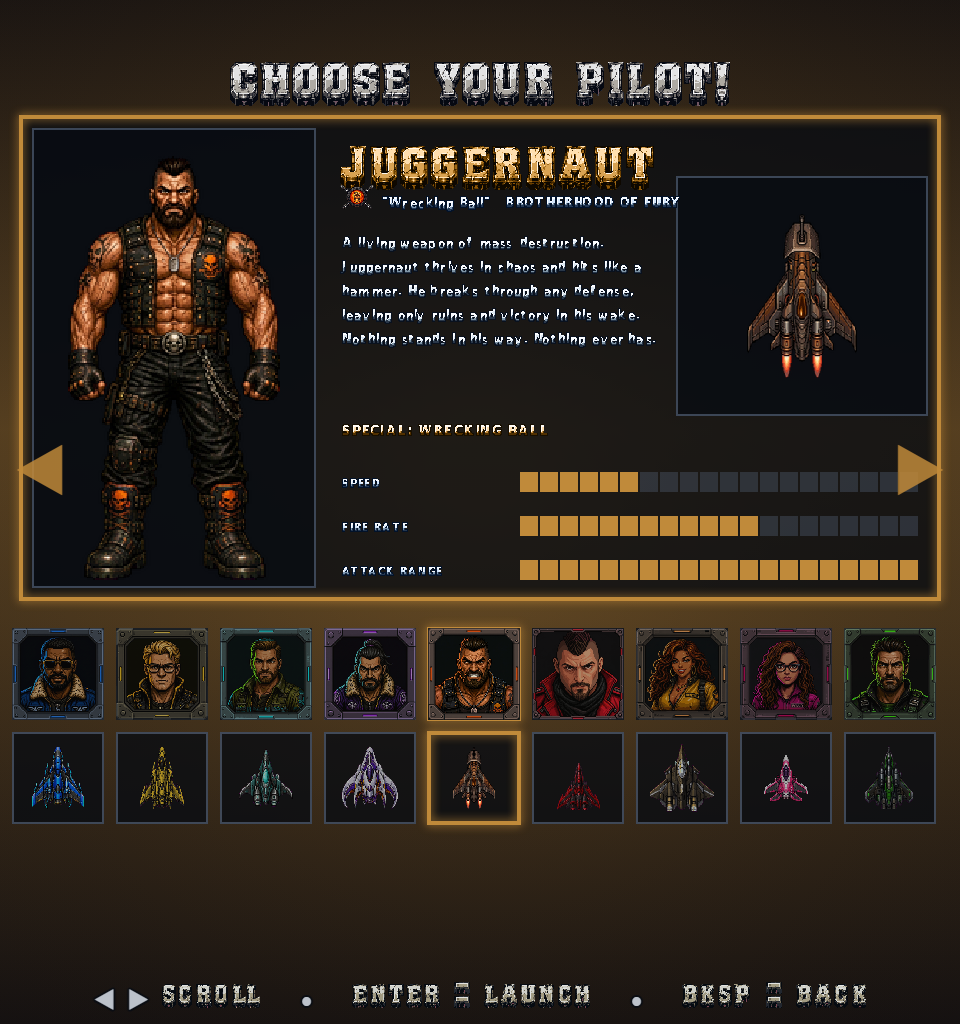
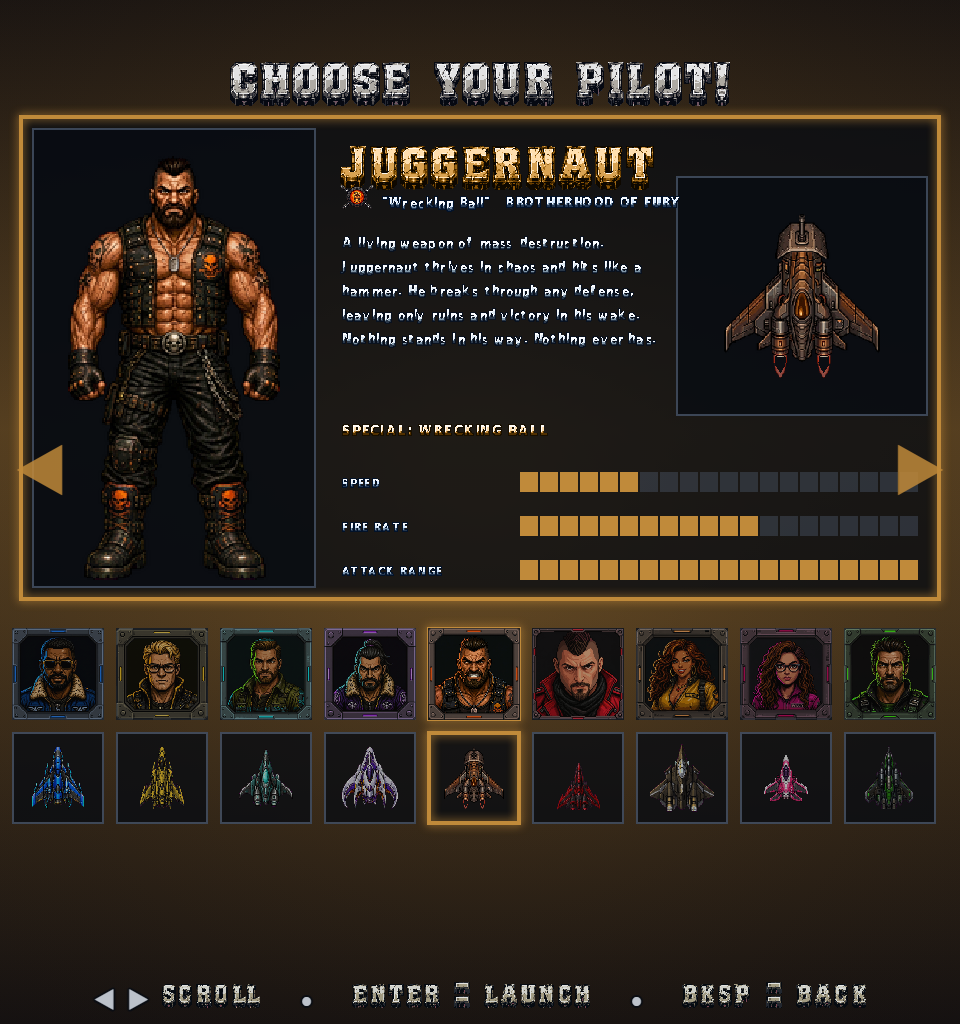
0906p: the flameless frame, and why the thruster rebuild needs Mike before it proceeds
Mike: "just make sure you get a frame without the thrusters, and we will need frames of all ships
with thrusters properly attached. then from there you do pixel glow of the thrusters."

HE HAS ASKED FOR THIS BEFORE AND game.js ALREADY SAYS SO. The note at 31548 records it verbatim:
"nthp_ is not a plume. Measured, it is a four-pointed STAR/burst" - frames 81x102, 136x158,
170x192, 81x135, so cycling them pulses the SIZE rather than flickering - and "the real fix is the
one he asked for originally: light the exhaust pixels ON THE HULL rather than pasting a separate
sprite under it. That is a different build and it is written up, not bodged in here." Rendered the
plumes to confirm: they are stars. That is the jank he is describing.

ONLY ONE HULL OF THE NINE ACTUALLY HAS BAKED FLAME, AND THE COUNT SAID FIVE. A hot-pixel tally over
the tail band reported flame on falva (850 px), juggernaut (369), decker (168), lizzie (140), yuri
(103). Rendering the tails settled it: on every one but Juggernaut those are nozzle interiors and
white metal highlights. The count was measuring brightness; only the picture could say what was
bright. Eight hulls were already flameless.

Juggernaut's flame is stripped. Two bugs on the way, both kept in the script:
  "reaches the tail" as the last two rows found ZERO blobs - his flame ends 7px above the ink
  bottom, so a hull with plainly visible exhaust measured as flameless. It is the bottom 15% now.
[…]

Changed region(s): [[0.75, 0.2188, 0.9375, 0.375], [0.4688, 0.7188, 0.5312, 0.7812]]

diff --git a/_BUILD_SOURCE/strip_jug_flame_0906p.py b/_BUILD_SOURCE/strip_jug_flame_0906p.py
@@ -1,0 +1,170 @@
+#!/usr/bin/env python3
+"""strip_jug_flame_0906p.py - a genuinely flameless Juggernaut, and his real mounts from the flame.
+
+    python _BUILD_SOURCE/strip_jug_flame_0906p.py            # proof only
+    python _BUILD_SOURCE/strip_jug_flame_0906p.py --write
+
+Mike, 0906: "just make sure you get a frame without the thrusters."
+
+⚠ ONLY ONE OF THE NINE HULLS ACTUALLY HAS FLAME BAKED IN, AND I NEARLY BELIEVED OTHERWISE. A
+hot-pixel count over the tail band reported flame on five ships (falva 850 px, juggernaut 369,
+decker 168, lizzie 140, yuri 103). Rendering the tails settled it: on all of them except Juggernaut
+those hot pixels are NOZZLE INTERIORS and white metal highlights, not exhaust. Juggernaut is the
+only hull carrying a real plume, because his art was generated with one. **The count was measuring
+brightness; only the picture could say what was bright.**
+
+⚠ AND THE FLAME IS WHAT MAKES HIS MOUNTS MEASURABLE. A generic "find the engines" detector was
+written for all nine and FAILED ITS VALIDATION - constrained to the fuselage it still reproduced
+only 1 of the 4 ships whose art has not changed since the mounts were authored, finding wingtip
+and canopy highlights instead. It is therefore not used to move anybody's mounts. Juggernaut is
+the exception on evidence rather than on preference: his exhaust is literally drawn on the plate,
+so the x-centroid of each flame blob IS a mount, with nothing to confuse it for.
+
+The flame is found by connected components of hot pixels reaching the BOTTOM 15% of the ink -
+exhaust leaves the ship, a lit nozzle interior does not - so a bright engine bell cannot be mistaken
+for a plume even on his own hull. See the two inline notes for the tolerance and for why a white-hot
+core needs catching on brightness rather than on warmth.
+"""
+import os, re, sys, json, shutil, subprocess, colorsys
+from collections import deque
+from PIL import Image
+
+ROOT = os.path.dirname(os.path.dirname(os.path.abspath(__file__)))
+ATLAS = os.path.join(ROOT, 'assets/game/atlas/bof_player_ships_barrel_rolls.png')
+MANIFEST = os.path.join(ROOT, 'assets/manifest.js')
+
+
+def is_hot(p):
+    """⚠ A WHITE-HOT FLAME CORE HAS NEAR-ZERO SATURATION, WHICH THE FIRST VERSION OF THIS EXCLUDED.
+    Requiring s >= 0.35 kept the very hottest part of the exhaust and removed only the orange around
+    it, leaving a pale ghost sitting in each nozzle - visible in the first proof render and easy to
+    mistake for nozzle art. Fire runs orange -> yellow -> WHITE, so the top of that ramp is
+    desaturated by definition and has to be caught on brightness alone."""
+    r, g, b, a = p
+    if a < 32:
+        return False
+    h, s, v = colorsys.rgb_to_hsv(r / 255., g / 255., b / 255.)
+    if v >= 0.86:
+        return True                                     # white-hot core, whatever its saturation
+    return v >= 0.72 and s >= 0.35 and (h < 0.15 or h > 0.90)
+
+
+def flame_blobs(cell):
+    """hot components that reach the bottom edge of the ink - i.e. exhaust leaving the ship"""
+    W, H = cell.size
+    px = cell.load()
+    # the lowest inked row, so "bottom edge" means the ship's tail and not the canvas
+    bot = max((y for y in range(H) for x in range(W) if px[x, y][3] > 16), default=H - 1)
+    seen = [[False] * W for _ in range(H)]
+    out = []
+    for y0 in range(H):
+        for x0 in range(W):
+            if seen[y0][x0] or not is_hot(px[x0, y0]):
+                continue
+            q = deque([(x0, y0)]); seen[y0][x0] = True; pts = []
+            while q:
+                x, y = q.popleft(); pts.append((x, y))
+                for dx in (-1, 0, 1):
+                    for dy in (-1, 0, 1):
+                        nx, ny = x + dx, y + dy
+                        if 0 <= nx < W and 0 <= ny < H and not seen[ny][nx] and is_hot(px[nx, ny]):
+                            seen[ny][nx] = True; q.append((nx, ny))
+            # ⚠ "REACHES THE TAIL" IS THE BOTTOM 15% OF THE INK, NOT THE LAST TWO ROWS. Measured on
+            # this hull: the flame ends at y205 against an ink bottom of y212, so a 2px tolerance
+            # found ZERO blobs and reported a hull with visible exhaust as flameless. The scattered
+            # single hot pixels higher up the fuselage (y50, y76, y111...) are highlights, and a
+            # 15% band still excludes every one of them.
+            if max(p[1] for p in pts) >= bot - max(4, int(bot * 0.15)) and len(pts) >= 25:
+                out.append(pts)
+    return out, bot
+
+
+def main():
+    write = '--write' in sys.argv
+    js = subprocess.run(['node', '-e',
+        "global.window=global;eval(require('fs').readFileSync('assets/manifest.js','utf8'));"
+        "const o={};for(const k in BOFX.ships)"
+        "if(k==='ship_juggernaut'||k.indexOf('ship_juggernaut_')===0)o[k]=BOFX.ships[k];"
+        "process.stdout.write(JSON.stringify(o));"], capture_output=True, cwd=ROOT)
+    R = json.loads(js.stdout.decode())
+    A = Image.open(ATLAS).convert('RGBA')
+
+    hull = R['ship_juggernaut']
+    hx, hy, hw, hh = hull[0], hull[1], hull[2], hull[3]
+    cell = A.crop((hx, hy, hx + hw, hy + hh))
+    bb = cell.getbbox()
+    trim = cell.crop(bb) if bb else cell
+    blobs, bot = flame_blobs(trim)
+    W = trim.width
+    mounts = sorted(round((sum(p[0] for p in pts) / len(pts) - (W - 1) / 2.0) / W, 4) for pts in blobs)
+    print('hull ink %dx%d - %d flame blob(s) reaching the tail' % (trim.width, trim.height, len(blobs)))
+    for i, pts in enumerate(blobs):
+        cx = sum(p[0] for p in pts) / len(pts)
+        print('   blob %d: %d px, centre x %+.4f of width' % (i, len(pts), (cx - (W - 1) / 2.0) / W))
+    print('measured mounts: %s' % ', '.join('%+.4f' % m for m in mounts))
+    print('authored (stale - his art was replaced twice since): %s'
+          % ', '.join('%+.4f' % m for m in json.load(open(os.path.join(ROOT, 'assets/data/thruster_mounts.json')))['juggernaut']['mounts']))
+
+    # ---- build the flameless frames
+    before = trim.copy()
+    stripped = 0
+    for k, r in sorted(R.items()):
+        x, y, w, h = r[0], r[1], r[2], r[3]
+        c = A.crop((x, y, x + w, y + h))
+        b2 = c.getbbox()
+        if not b2:
+            continue
+        t = c.crop(b2)
+        bl, _ = flame_blobs(t)
+        if not bl:
+            continue
+        px = t.load()
+        for pts in bl:
+            for (a, b3) in pts:
+                px[a, b3] = (0, 0, 0, 0)
+                stripped += 1
+        c.paste(t, (b2[0], b2[1]))
+        A.paste(c, (x, y))
+    print('stripped %d flame pixels across %d frames' % (stripped, len(R)))
+
+    after = A.crop((hx, hy, hx + hw, hy + hh))
+    b3 = after.getbbox()
+    after = after.crop(b3) if b3 else after
+
+    from PIL import ImageDraw, ImageFont
+    try:
+        F = ImageFont.truetype('C:/Windows/Fonts/consolab.ttf', 15)
+    except Exception:
+        F = ImageFont.load_default()
+    T = 320
+    proof = Image.new('RGB', (T * 2, T + 24), (22, 22, 28))
+    d = ImageDraw.Draw(proof)
+    for i, (lbl, im) in enumerate((('WITH baked flame', before), ('flameless (_nf)', after))):
+        s = min((T - 14) / im.width, (T - 14) / im.height)
+        t = im.resize((max(1, int(im.width * s)), max(1, int(im.height * s))), Image.LANCZOS)
+        proof.paste(t, (i * T + (T - t.width) // 2, (T - t.height) // 2), t)
+        d.text((i * T + 5, T + 5), lbl, font=F, fill=(240, 240, 250))
+    proof.save(os.path.join(ROOT, 'docs/JUG_FLAMELESS_0906P.png'))
+    print('wrote docs/JUG_FLAMELESS_0906P.png')
+
+    if not write:
+        print('DRY RUN - nothing written.')
+        return 0
+    bak = ATLAS + '.0906p.bak'
+    if not os.path.exists(bak):
+        shutil.copy2(ATLAS, bak)
+    A.save(ATLAS)
+    # his mounts are now measured from his own exhaust, so the stale authored row is replaced
+    mp = os.path.join(ROOT, 'assets/data/thruster_mounts.json')
+    mj = json.load(open(mp))
+    mj['juggernaut']['mounts'] = mounts
+    mj['juggernaut']['note'] = ('measured 0906p from the x-centroids of the baked exhaust on his own '
+                                'hull, which is the only unambiguous source any of the nine has; the '
+                                'previous three-mount row was authored against an airframe replaced twice since')
+    json.dump(mj, open(mp, 'w', encoding='utf-8'), indent=2)
+    print('wrote the atlas and juggernaut\'s mounts')
+    return 0
+
+
+if __name__ == '__main__':
+    sys.exit(main())

diff --git a/docs/PASSOVER_0906.md b/docs/PASSOVER_0906.md
@@ -842,3 +842,65 @@ needs Mike's word first.
 
 Proofs: `docs/DECKER_DIAG_0906O.png`, `docs/DECKER_SWEEP_0906O.png`,
 `docs/DECKER_REDONE_0906O.png`, `docs/SHIPS_0906O.png`.
+
+---
+
+# 0906p — the flameless frame, and why the thruster rebuild needs Mike before it can proceed
+
+Mike: *"just make sure you get a frame without the thrusters, and we will need frames of all ships
+with thrusters properly attached. then from there you do pixel glow of the thrusters, this would
+remove those janky thrusters we have in the cinematics, intro's and in-game."*
+
+## He has asked for this before, and game.js already says so
+
+The note at `game.js:31548` records it verbatim: **"nthp_ is not a plume. Measured, it is a
+four-pointed STAR/burst"** — frames 81x102, 136x158, 170x192, 81x135, so cycling them pulses the
+SIZE rather than flickering — and *"the real fix is the one he asked for originally: make the ship
+graphics we have with thrusters, make thruster pixels glow, i.e. light the exhaust pixels ON THE
+HULL rather than pasting a separate sprite under it. That is a different build and it is written
+up, not bodged in here."* Rendered the plumes to confirm: they are stars. That is the jank.
+
+## What landed
+
+⚠ **ONLY ONE HULL OF THE NINE ACTUALLY HAS BAKED FLAME, AND THE COUNT SAID FIVE.** A hot-pixel tally
+over the tail band reported flame on falva (850 px), juggernaut (369), decker (168), lizzie (140)
+and yuri (103). Rendering the tails settled it: on every one but Juggernaut those are **nozzle
+interiors and white metal highlights**. The count was measuring brightness; only the picture could
+say what was bright. So eight hulls were already flameless and needed nothing.
+
+Juggernaut's flame is stripped, giving the frame Mike asked for. Two bugs on the way, both worth
+keeping:
+- ⚠ **"reaches the tail" as the last two rows found ZERO blobs** — his flame ends 7px above the ink
+  bottom, so a hull with plainly visible exhaust measured as flameless. It is the bottom 15% now.
+- ⚠ **A WHITE-HOT FLAME CORE HAS NEAR-ZERO SATURATION.** Requiring `s >= 0.35` kept the hottest part
+  of the exhaust and removed only the orange around it, leaving a pale ghost in each nozzle. Fire
+  runs orange → yellow → WHITE, so the top of that ramp is desaturated by definition and has to be
+  caught on brightness alone. Same family as `despill_fire`'s b-vs-g rule in 0906.
+- A faint dark rim remains inside the bells. Left deliberately: at the 60px the game draws a hull it
+  reads as nozzle shading, and the thresholds needed to chase it start eating copper plating.
+
+**And his mounts are now measured rather than guessed** — the x-centroids of his own baked exhaust,
+±0.138/±0.140, replacing a stale three-mount row authored against an airframe replaced twice since.
+
+## ⚠ WHY THE REST IS NOT DONE YET — FIVE PILOTS' MOUNTS ARE STALE AND I CANNOT MEASURE THEM
+
+Attaching thrusters needs to know where the engines are, and `thruster_mounts.json` is Mike's own
+data — CLAUDE.md: *"Do not change these from a guess — he has corrected them once already."*
+
+Drawing the authored mounts onto the art (`docs/THRUSTER_MOUNTS_CHECK.png`) shows a clean pattern:
+they land correctly on **axel, decker, freezer and cole** — and those are exactly the four ships
+whose art has NOT been replaced. The other five (maverick, lizzie, yuri, juggernaut, falva) have had
+new airframes since, so their mounts point at engines that no longer exist: maverick, yuri and
+lizzie all have twin engines with the single mount sitting in the gap between them.
+
+A detector was written to re-measure them and **it failed its own validation** — constrained to the
+fuselage it still reproduced only **1 of the 4** known-good ships, finding wingtip and canopy
+highlights. Per this repo's own rule, a metric that has not reproduced the known-correct cases is
+not evidence about the unknown ones, so it was not used to move anything. Juggernaut is the single
+exception and only because his exhaust is drawn on the plate.
+
+**So four mount rows need Mike**: maverick, lizzie, yuri, falva. Once those are right, the attached
+plume and its pixel glow are a build, not a question — and the `nthp_` star paste comes out at the
+same time so there is one thruster system rather than two.
+
+Proofs: `docs/JUG_FLAMELESS_0906P.png`, `docs/THRUSTER_MOUNTS_CHECK.png`, `docs/_nthp.png`.
